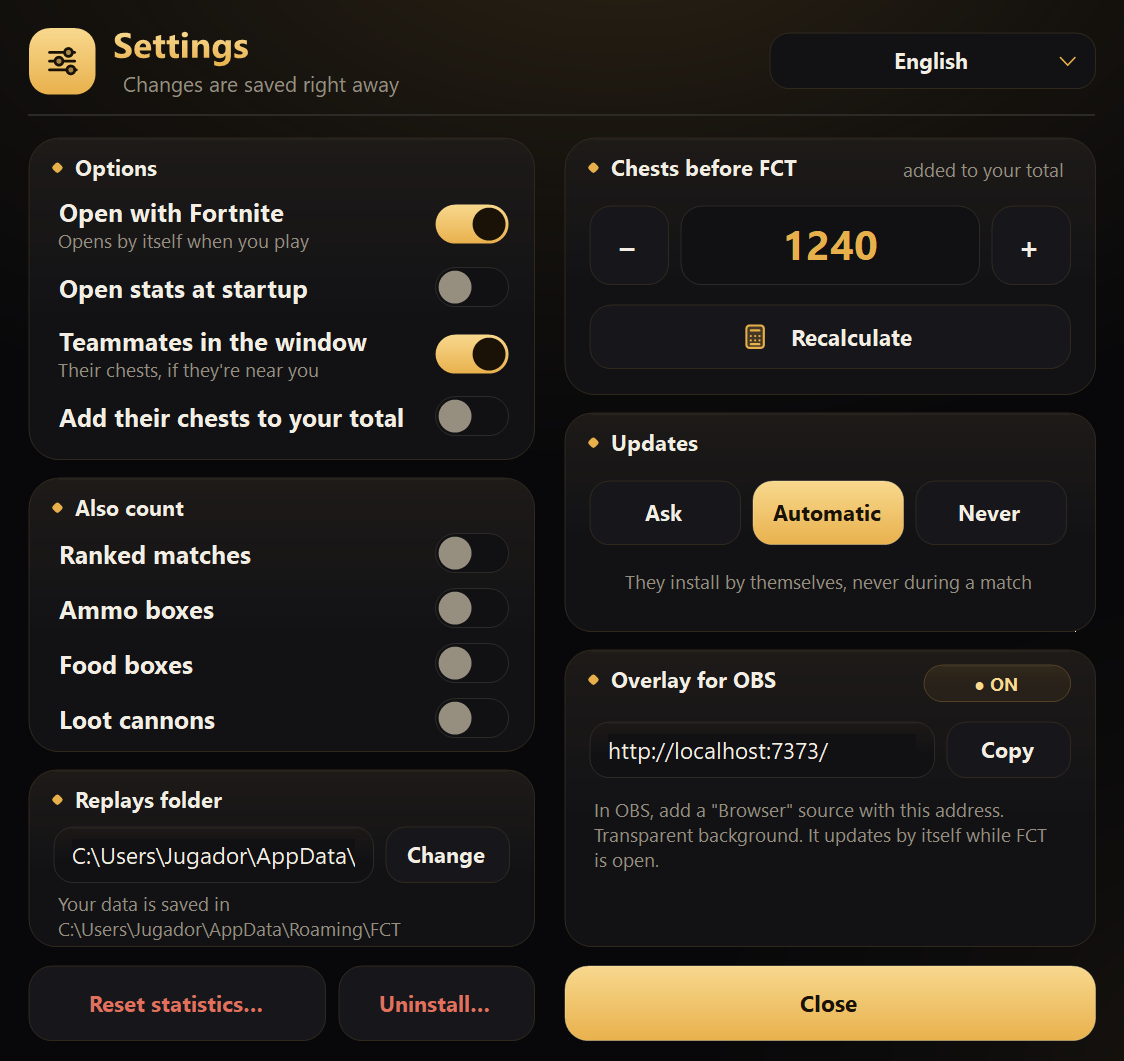
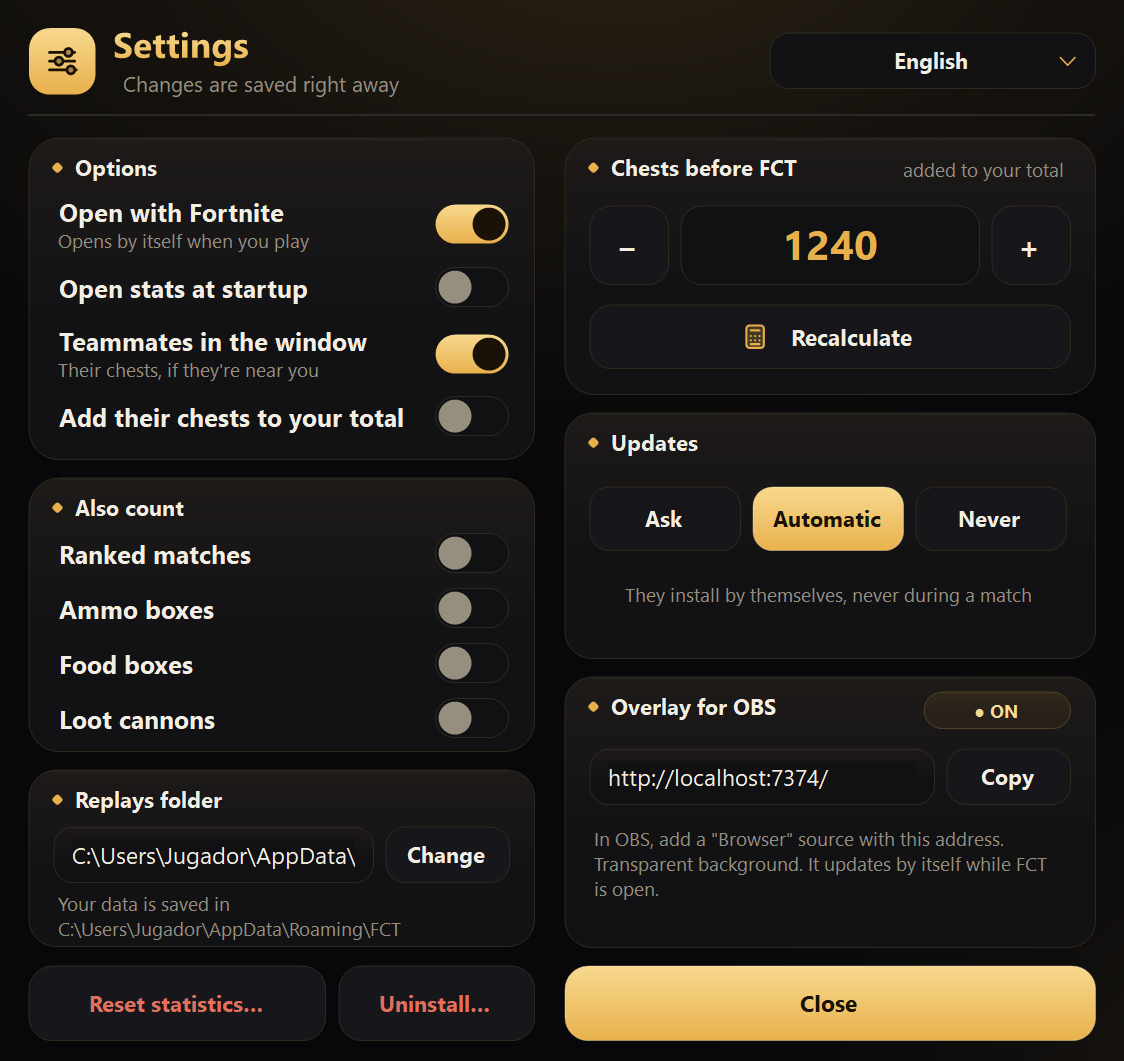
Configuración: tarjeta de OBS ajustada a su contenido y el espacio repartido con Actualizaciones

diff --git a/src/UI/Settings/SettingsForm.cs b/src/UI/Settings/SettingsForm.cs
@@ -73,17 +73,17 @@ public sealed partial class SettingsForm : ThemedForm
         _cannons.CheckedChanged += (_, _) => Saved(() => _monitor.SetCountExtra(c => c.CountLootCannons = _cannons.Checked));
 
         // ---- right column: updates (three pills)
-        var updates = Card(this, RightX, Header + 185, RightWidth, 116, 14);
+        var updates = Card(this, RightX, Header + 185, RightWidth, 130, 14);
         Title(updates, L.T("Actualizaciones", "Updates"));
         var pillWidth = (RightWidth - 26 - 2 * 6) / 3;
         for (var i = 0; i < UpdateChoices.Length; i++)
         {
             var index = i;
-            _updateButtons[i] = Button(UpdateChoices[i].Label, new Point(13 + i * (pillWidth + 6), 36), new Size(pillWidth, 34), 10);
+            _updateButtons[i] = Button(UpdateChoices[i].Label, new Point(13 + i * (pillWidth + 6), 39), new Size(pillWidth, 34), 10);
             _updateButtons[i].Click += (_, _) => ShowUpdateMode(index, save: true);
             updates.Controls.Add(_updateButtons[i]);
         }
-        _updateHint = SettingsParts.Text(updates, "", 7.5f, FontStyle.Regular, Theme.Muted, new Point(13, 80), new Size(RightWidth - 26, 18), ContentAlignment.MiddleCenter);
+        _updateHint = SettingsParts.Text(updates, "", 7.5f, FontStyle.Regular, Theme.Muted, new Point(13, 87), new Size(RightWidth - 26, 18), ContentAlignment.MiddleCenter);
         ShowUpdateMode(Math.Max(0, Array.FindIndex(UpdateChoices, c => c.Mode == config.UpdateMode)), save: false);
 
         var folder = Card(this, LeftX, Header + 373, LeftWidth, 94, 14);
@@ -145,7 +145,7 @@ public sealed partial class SettingsForm : ThemedForm
     /// <summary>The OBS page: its address with a copy button, and whether it is on.</summary>
     private void ObsCard()
     {
-        var card = Card(this, RightX, Header + 310, RightWidth, 157, 14);
+        var card = Card(this, RightX, Header + 324, RightWidth, 143, 14);
         Title(card, L.T("Overlay para OBS", "Overlay for OBS"), 92);
         var url = ObsServer.Url;
         var on = url != null;
@@ -174,7 +174,7 @@ public sealed partial class SettingsForm : ThemedForm
                 ? L.F("En OBS, añade una fuente «Navegador» con esta dirección. Fondo transparente. Se actualiza sola mientras {0} está abierto.",
                     "In OBS, add a \"Browser\" source with this address. Transparent background. It updates by itself while {0} is open.", AppInfo.ShortName)
                 : L.F("Otro programa usa el puerto; reinicia {0} para probar de nuevo.", "Another program uses the port; restart {0} to try again.", AppInfo.ShortName),
-            7.5f, FontStyle.Regular, Theme.Muted, new Point(13, 78), new Size(RightWidth - 26, 63));
+            7.5f, FontStyle.Regular, Theme.Muted, new Point(13, 79), new Size(RightWidth - 26, 48));
     }
 
     /// <summary>
